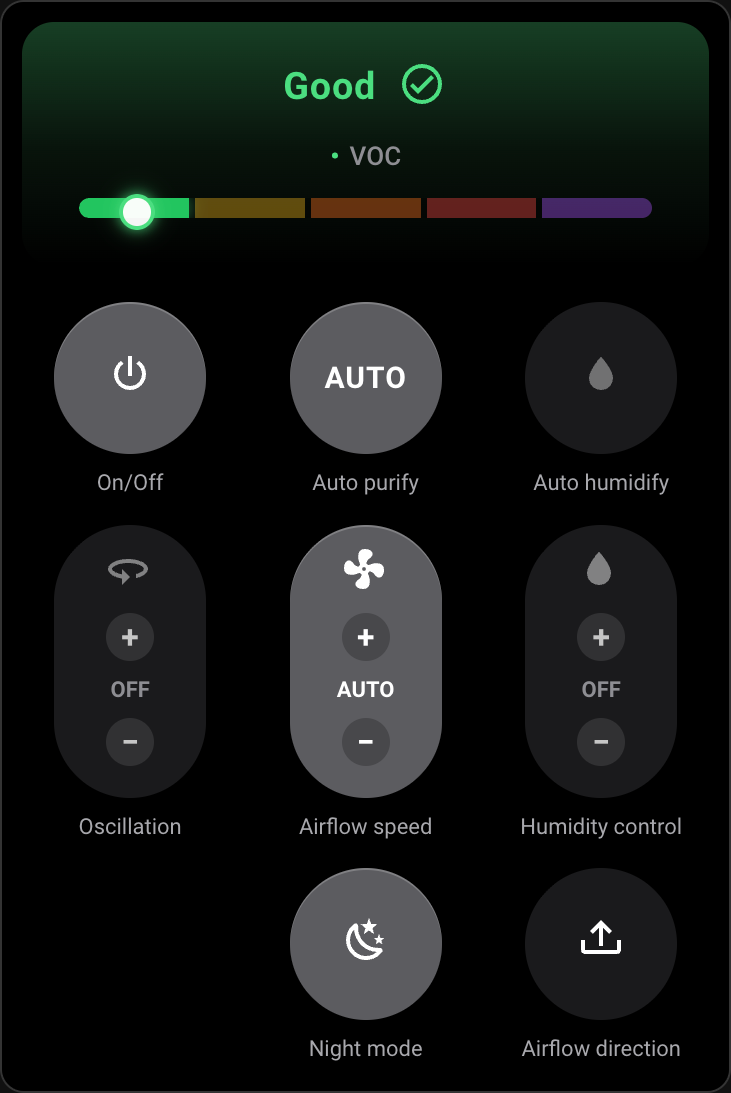
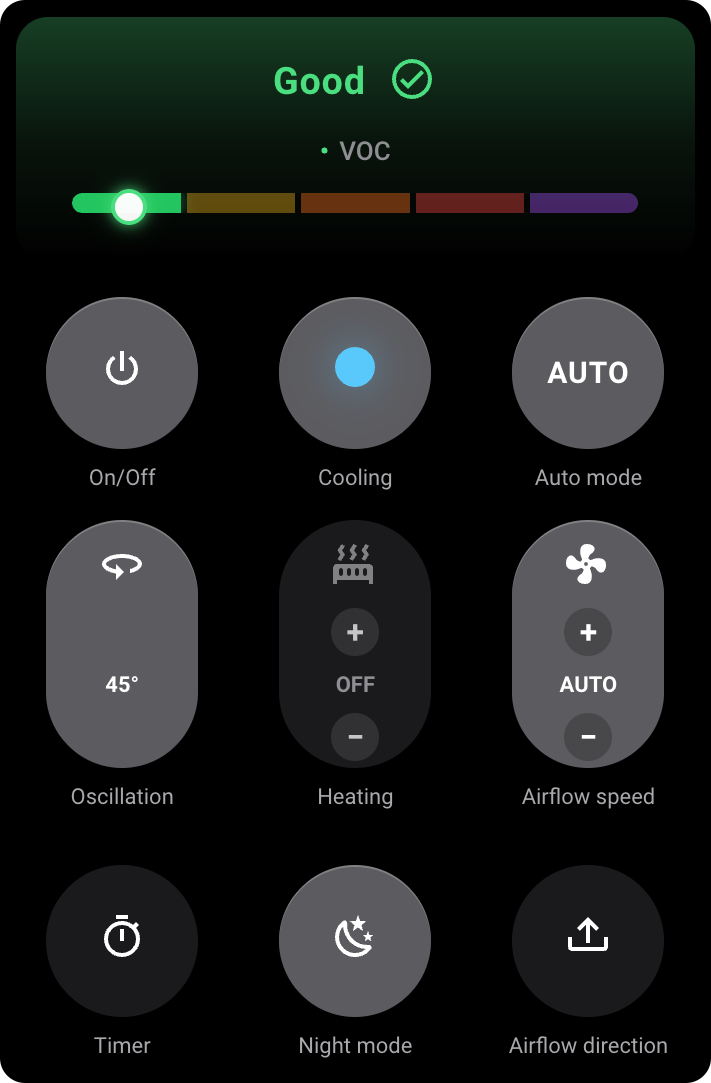
Update readme

diff --git a/README.md b/README.md
@@ -81,20 +81,21 @@ This card now includes a visual config editor, so Home Assistant should no longe
 
 ## What the controls do
 
-**Column alignment (three-column layout):** Top row is **On/Off** | **Cooling / Auto purify** | **Auto mode / Auto humidify**. The stepper row is **Oscillation** | **Heating** or **Humidity control** | **Airflow** on ordinary fans; on **humidifier combo** cards it is **Oscillation** | **Airflow** | **Humidity control** so airflow sits under Auto purify and humidity under Auto humidify. The bottom row uses an **invisible spacer** cell (column 1) plus **Night mode** and **Airflow direction** so plain grid auto-flow keeps Night in the **center column** without relying on `grid-column` (which some narrow `@container` branches were resetting). The spacer is `display: none` in the two-column narrow layout. On viewports about **346px** wide and up (the card’s own width), row **2** is fixed for the three steppers so columns cannot drift onto extra rows.
-
-| Control | Behavior |
-|--------|----------|
-| Air quality header (optional) | When enabled, can show category row, pollutant line, and/or color bar (each toggled in the editor) using linked `sensor.*` / fan attributes |
-| On/Off | Turns device on or off |
-| Cooling | Forces cooling/fan-only behavior where supported (integration-dependent) |
-| Auto mode | Toggles Auto/Manual when those presets exist |
-| Airflow `+/-` | Shows app-style speed levels (**OFF, 1..10**) and maps them to fan percentage internally |
-| Heating/Humidity `+/-` | One thermal stepper: target temperature for normal fans, or target humidity when combo mode is detected (linked **`humidifier.*`**, **`humidify`** in climate **`hvac_modes`**, or **`humidifier.*`** entity). Humidity range prefers the paired **humidifier** `min_humidity` / `max_humidity` when present; step is inferred (e.g. 10% grids on Dyson humidifiers) or overridden with optional **`humidity_step`**. Target writes use **`humidifier.set_humidity`** first by default, then climate / **`number.set_value`**; set **`humidity_write`** to `climate` or `humidifier` if your integration needs a fixed path. **−** from **AUTO** exits auto to a manual %; **−** at the minimum % turns humidify **Off** (`humidifier.set_mode` / `turn_off` or climate away from **humidify**). |
-| Oscillation `+/-` | Cycles configured angles; prefers `select.*_oscillation` when present, else `dyson.set_angle` / `fan.oscillate` |
-| Night mode | Toggles night mode when supported |
-
-Note: Dyson integrations differ. If your setup uses different services or entity types, use scripts/automations as adapters.
+| Control | What it does |
+|--------|--------------|
+| Air quality header | Shows the current air quality level (Good → Severe), dominant pollutant, and a color bar. Each piece can be turned on or off in the visual editor. Only appears if your integration provides air quality sensors. |
+| On / Off | Powers the device on or off. |
+| Cooling | Switches to fan/cooling mode — turns off heating or humidifying and just moves air. |
+| Auto mode | Lets the device manage its own speed automatically based on air quality. Press again to go back to manual. |
+| Auto purify *(humidifier models)* | Same as Auto mode, but specific to the purification side of combo devices. |
+| Auto humidify *(humidifier models)* | The device automatically adjusts humidification to reach a target humidity level. |
+| Airflow `+` / `−` | Raises or lowers fan speed. Displayed as levels **1–10** (matching the Dyson app), with **OFF** at zero and **AUTO** when the device is managing its own speed. |
+| Heating `+` / `−` | Raises or lowers the target temperature. |
+| Humidity `+` / `−` *(humidifier models)* | Raises or lowers the target humidity percentage. Shows **AUTO** when Auto humidify is on. Stepping down from **AUTO** switches back to the last manual percentage; stepping down from the minimum turns humidification off. |
+| Oscillation `+` / `−` | Cycles through sweep angles. Press the angle readout to open a picker showing all available angles for your device. |
+| Night mode | Switches to quieter, dimmer operation — the device runs at a lower speed and dims its display lights. |
+| Sleep timer | Sets the device to turn off automatically after 30, 60, 90, or 120 minutes. A countdown appears on the card while the timer is running. |
+| Airflow direction | Reverses the direction of airflow. |
 
 ## Troubleshooting
 

diff --git a/AGENTS.md b/AGENTS.md
@@ -4,3 +4,19 @@ Read `CLAUDE.md` before working on this project. It contains all integration con
 
 - **Build**: Rollup writes **`dist/hacs-dyson-remote.js`** and root **`hacs-dyson-remote.js`**; HACS **`hacs.json`** `filename` points at the root copy.
 - **Workflow**: [CONTRIBUTING.md](CONTRIBUTING.md) (tests, harness, release).
+
+---
+
+## Card layout — implementation notes
+
+Three-column grid. Top row: **On/Off** | **Cooling / Auto purify** | **Auto mode / Auto humidify**. On plain fans the stepper row is **Oscillation** | **Heating** | **Airflow**; on humidifier combo cards it shifts to **Oscillation** | **Airflow** | **Humidity** so airflow sits under Auto purify and humidity under Auto humidify (see `CLAUDE.md → Card layout`).
+
+The bottom row uses a `display: none` invisible spacer in column 1 so that Night mode lands in the center column via normal grid auto-flow rather than an explicit `grid-column`. This avoids a layout break in the narrow `@container` two-column branch that was resetting `grid-column`. At roughly 346px card width, the row is fixed to three steppers so columns cannot drift onto extra rows.
+
+## Thermal stepper (heating / humidity)
+
+One stepper handles both use-cases. Auto-detection of combo humidifier mode is documented in `CLAUDE.md → Combo humidifier mode`. Service call priority: `humidifier.set_humidity` → `climate.set_humidity` → `number.set_value`; controlled by the optional `humidity_write` config key (`auto` | `humidifier` | `climate`). Humidity bounds prefer the paired `humidifier.*` entity's `min_humidity` / `max_humidity` over the climate entity's (which may be narrower for display purposes). Step is inferred at 10% for the standard Dyson 30–70 range, or explicit via `humidity_step`. Stepping down from AUTO exits to the last manual %; stepping down from the floor turns humidification off.
+
+## Oscillation
+
+Prefers `select.*_oscillation` over `fan.oscillate` / `dyson.set_angle`. When a select entity is used, `fan.turn_on` is skipped on humidifier combo models to avoid a race that reverts the oscillation mode. See `CLAUDE.md → Oscillation` for the full fallback chain and pointing-angle drag logic.
